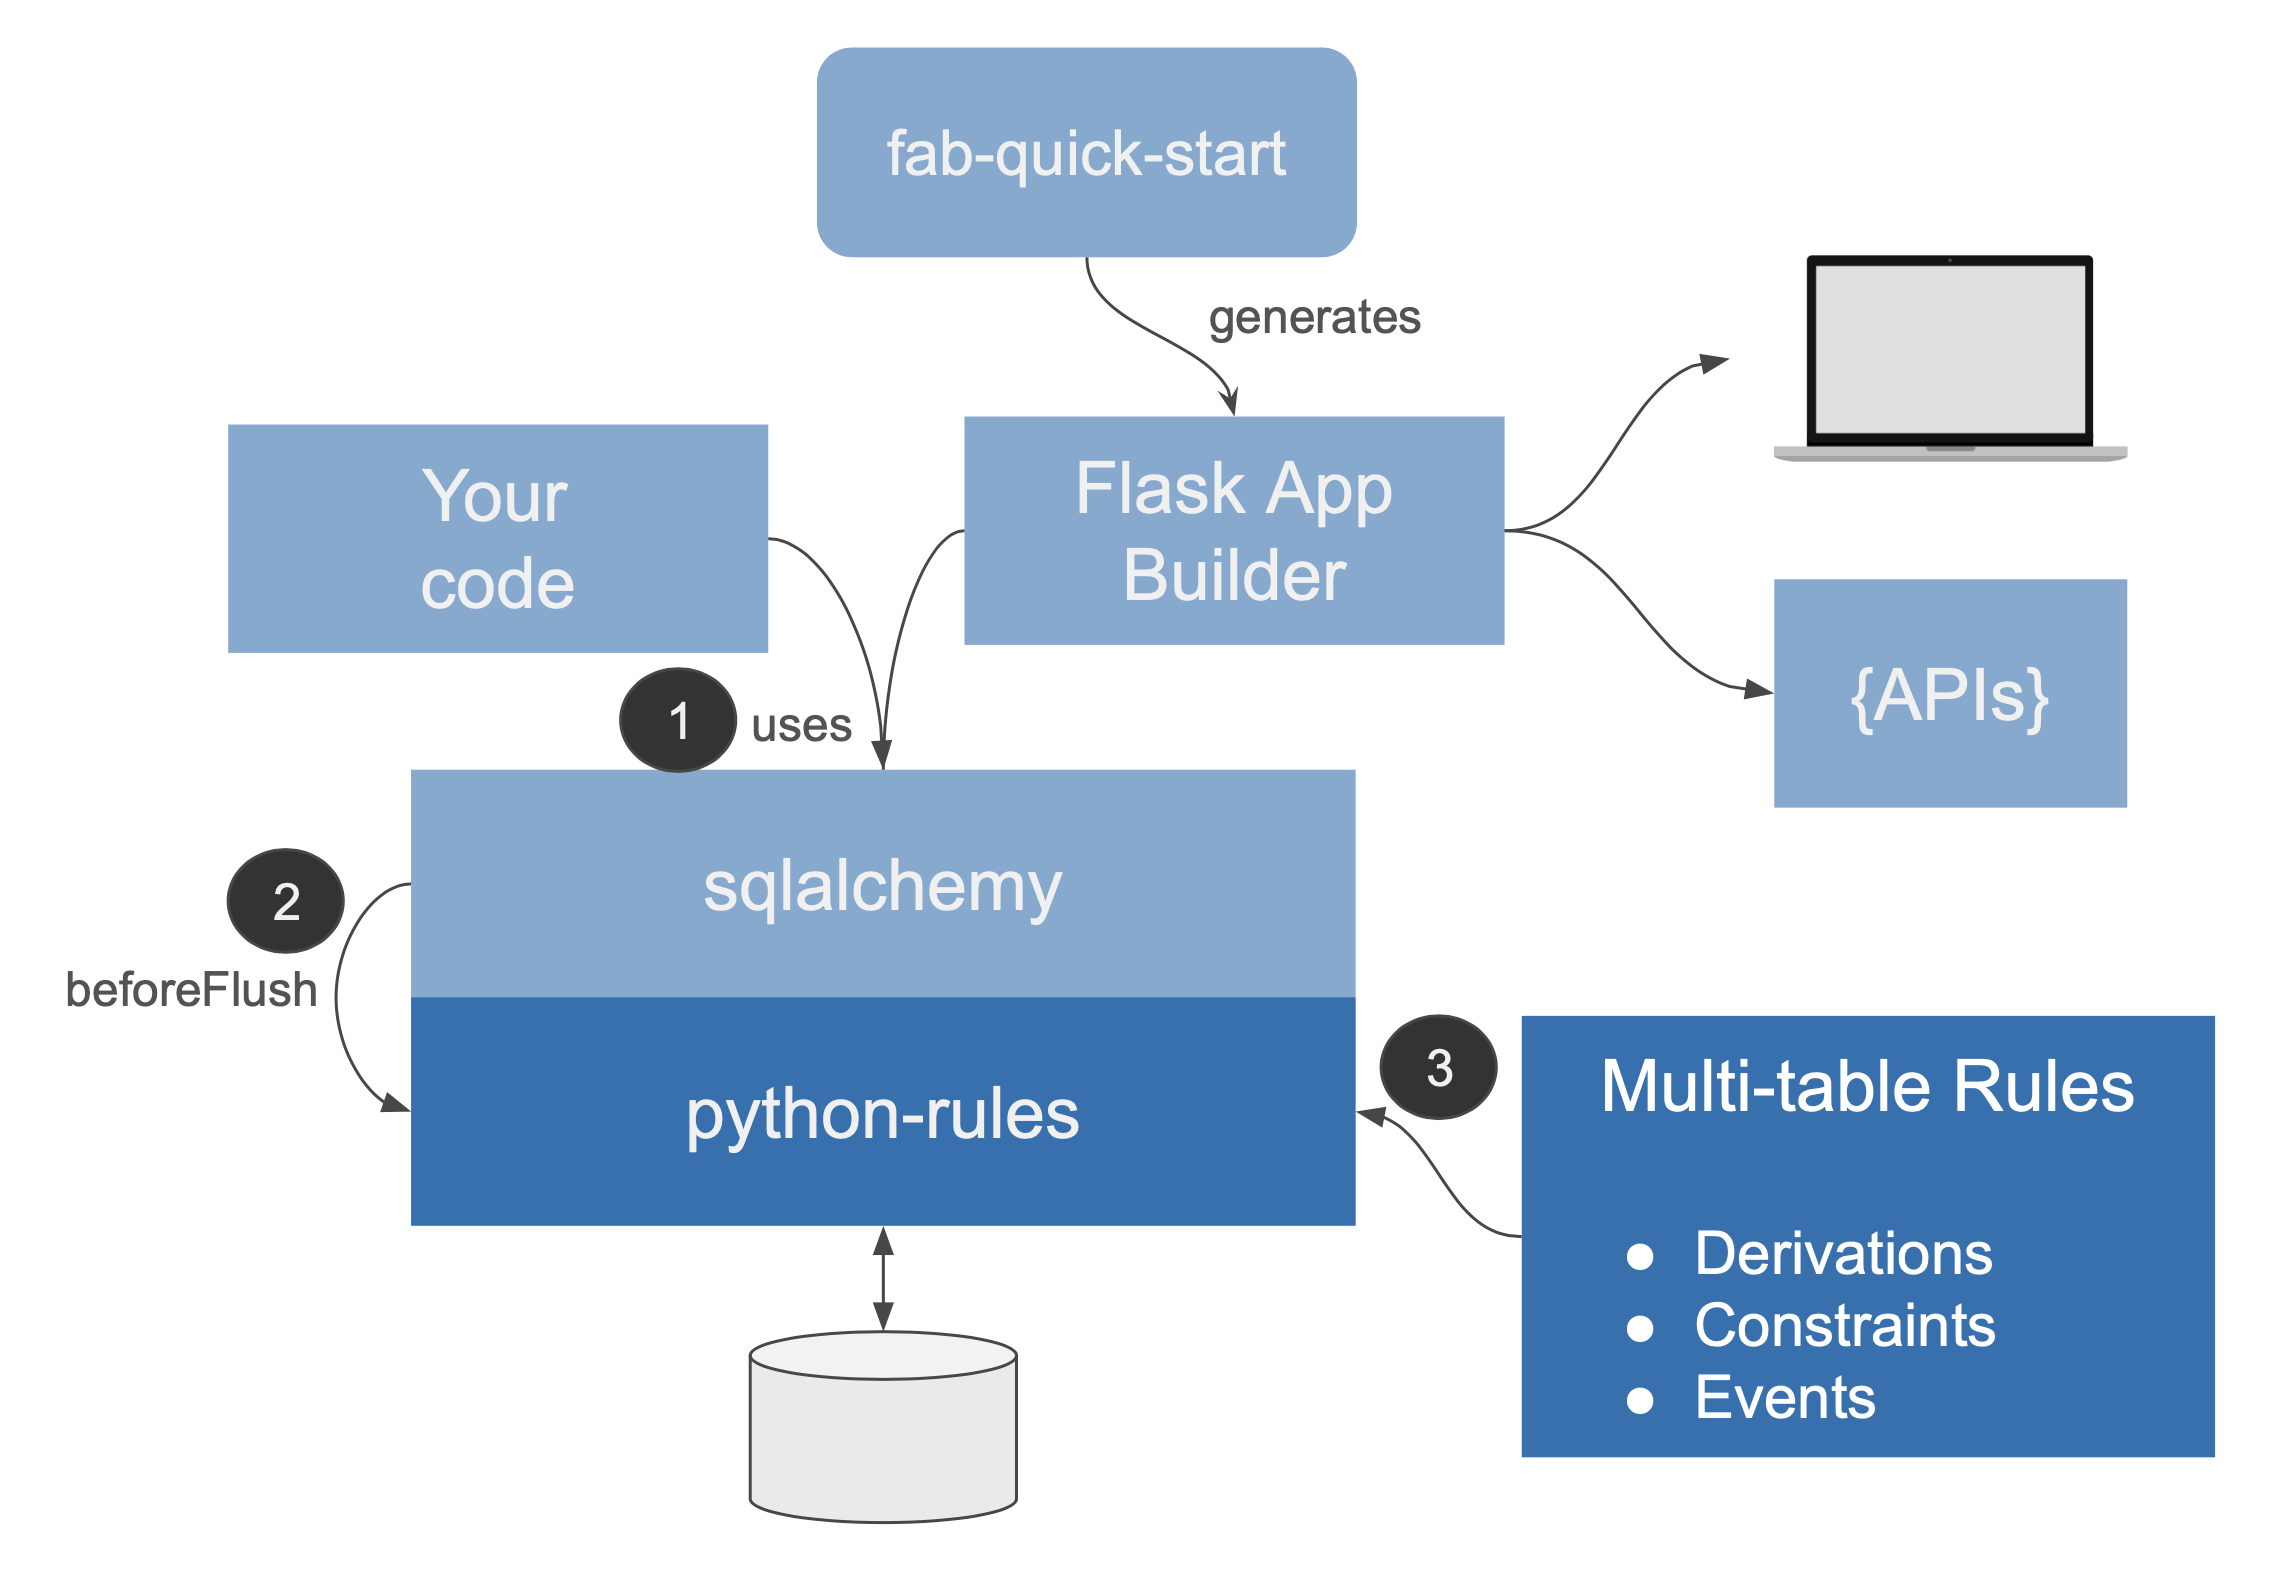
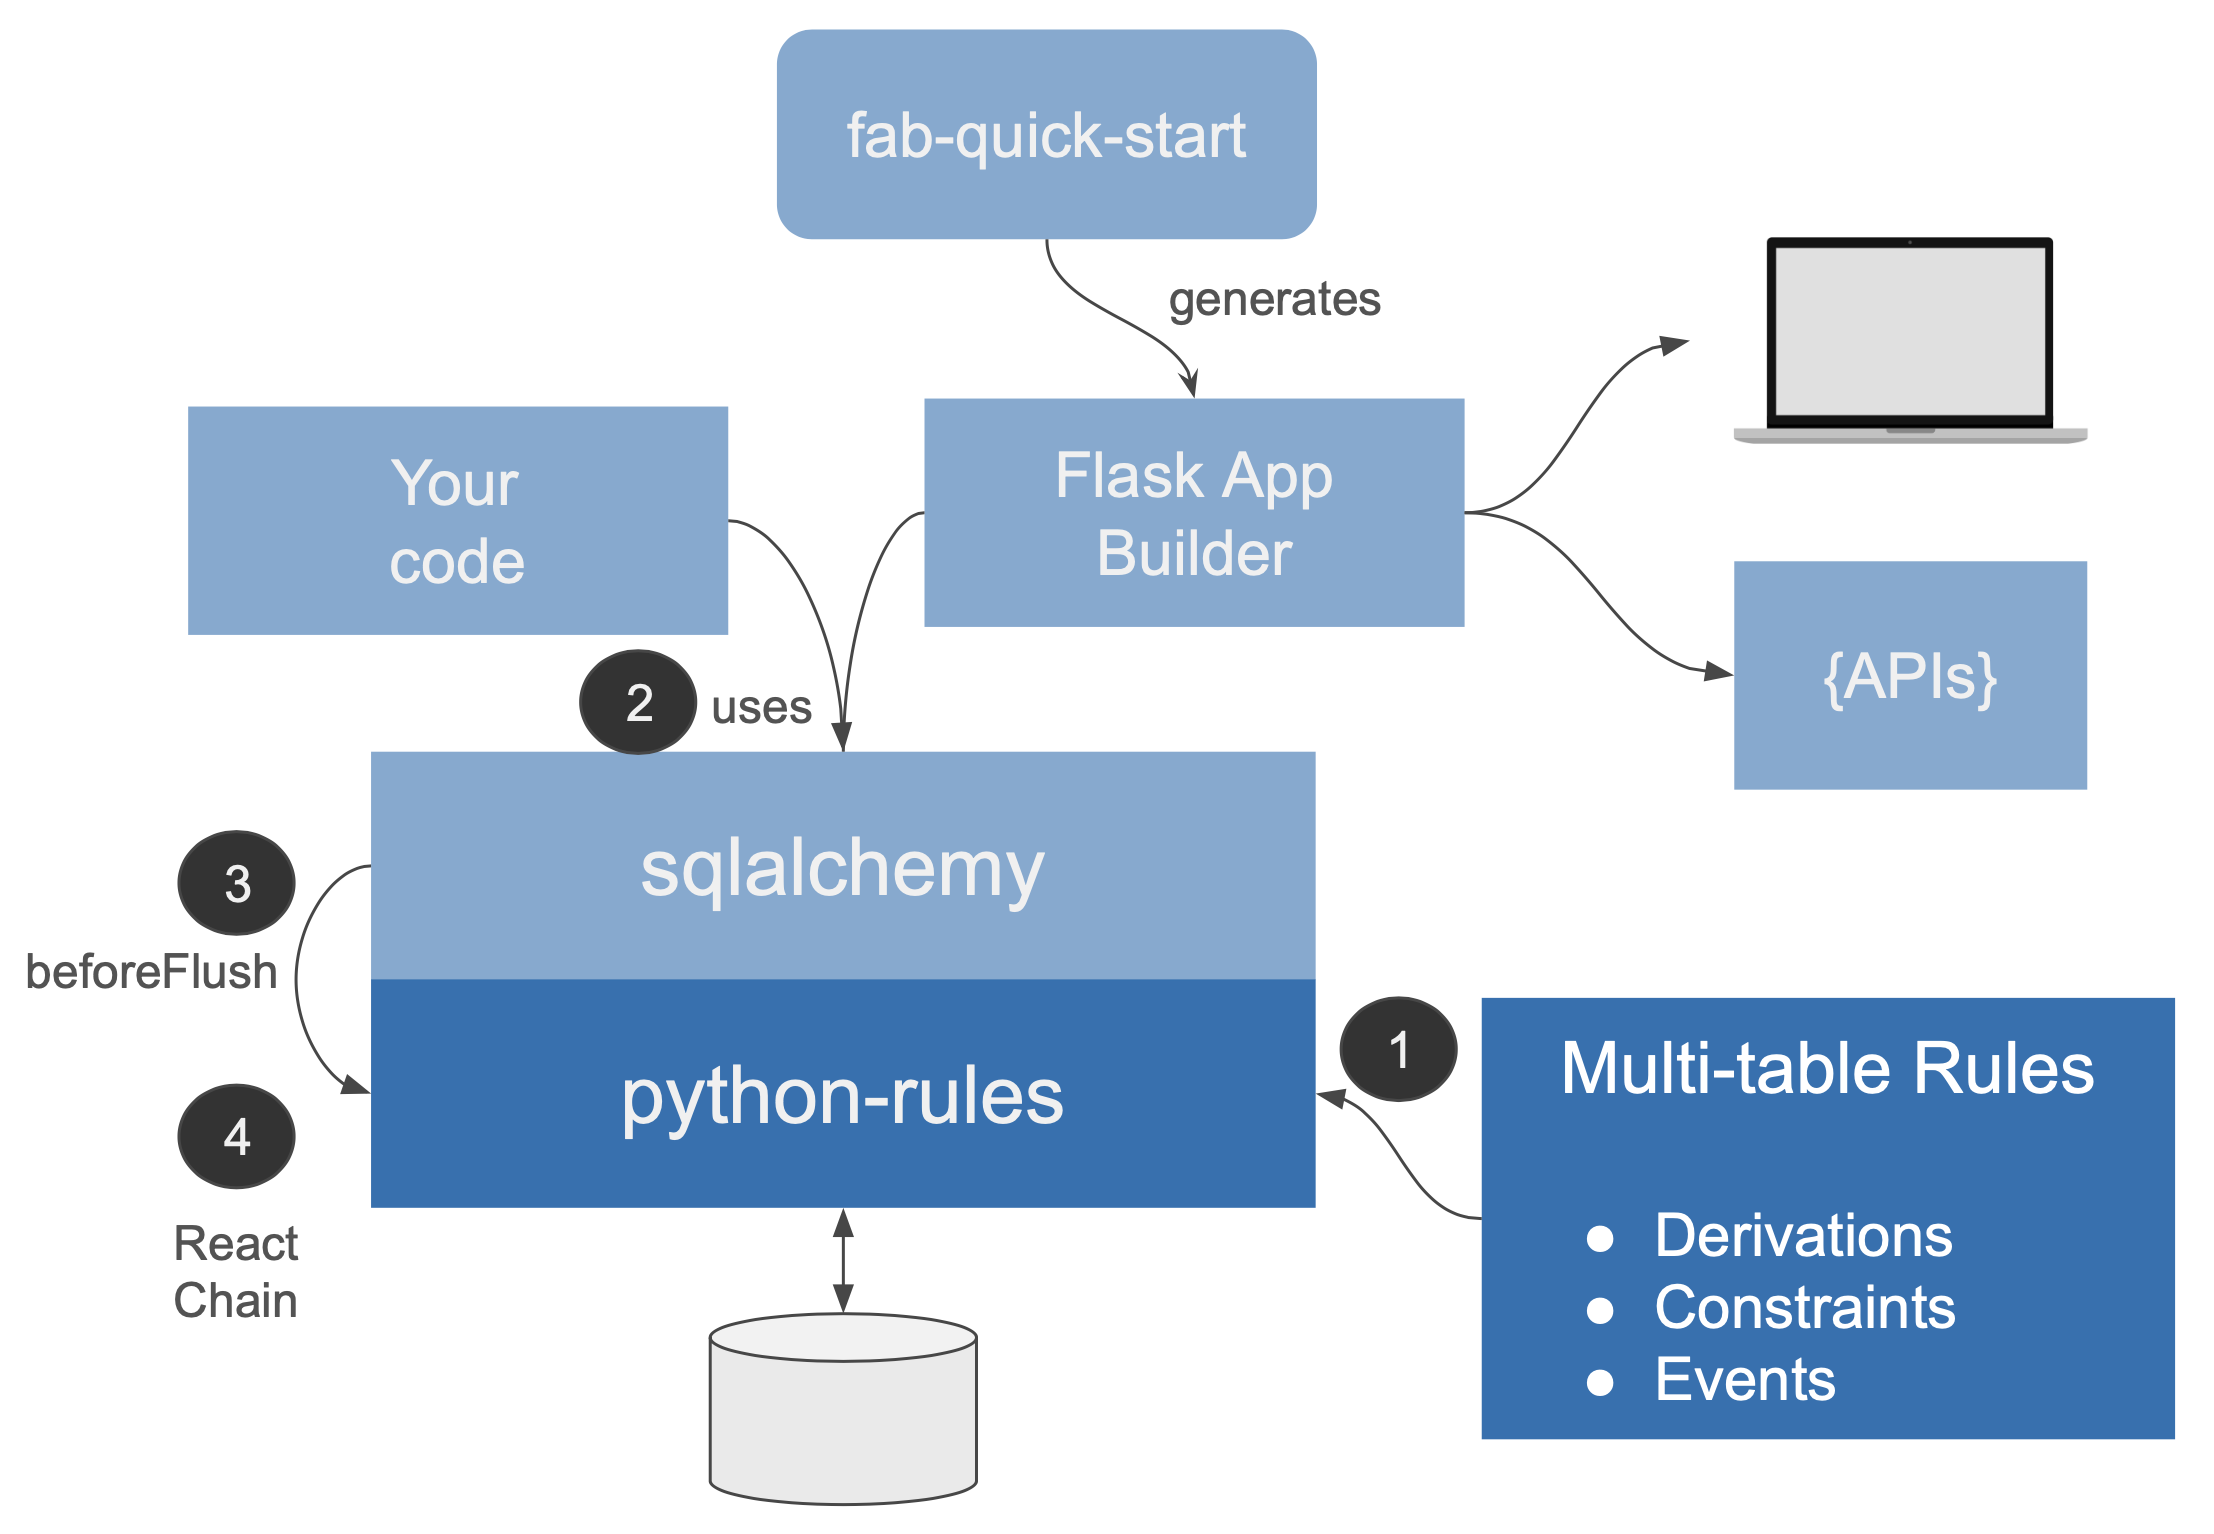
add clarity for react & chain

diff --git a/README.md b/README.md
@@ -42,11 +42,19 @@ Customers, Orders, OrderDetails and Products.
 #### Architecture
 <img src="https://github.com/valhuber/python-rules/blob/master/images/architecture.png" width="500">
 
+1. Your logic is expressed as Python functions (see example below).
 1. Your application makes calls on `sqlalchemy` for inserts, updates and deletes.
 This code can be hand-written, or via generators such as Flask AppBuilder
-2. The **python-rules** logic engine handles sqlalchemy `before_flush` events on
+1. The **python-rules** logic engine handles sqlalchemy `before_flush` events on
 `Mapped Tables`
-3. Your logic is expressed as Python functions (see example below).
+1. The logic engine operates as follows:
+   * **React** - attribute level changes are detected, and referencing rules are executed
+   (forward chaining *rule inference*);
+   unreferenced rules are pruned.  Note sum/count aggregate processing is
+   extremely efficient, as described below.
+   * **Chain** - if recomputed values are referenced by still other rules,
+   *these* are re-executed.  Note this can be in other tables.
+
 
 Logic does not apply to updates outside sqlalchemy,
 or to sqlalchemy batch updates or unmapped sql updates.
@@ -79,7 +87,7 @@ and rollup to AmountTotal / Balance to check CreditLimit
 * **Ship / Unship an Order (Adjust Balance) -** when an Order's `DateShippped`
 is changed, adjust the Customers `Balance`
 
-These representatively complex transactions illustrate common patterns:
+These representatively complex transactions illustrate common logic execution patterns:
 
 ##### Adjustments
 Rollups provoke an important design choice: store the aggregate,
